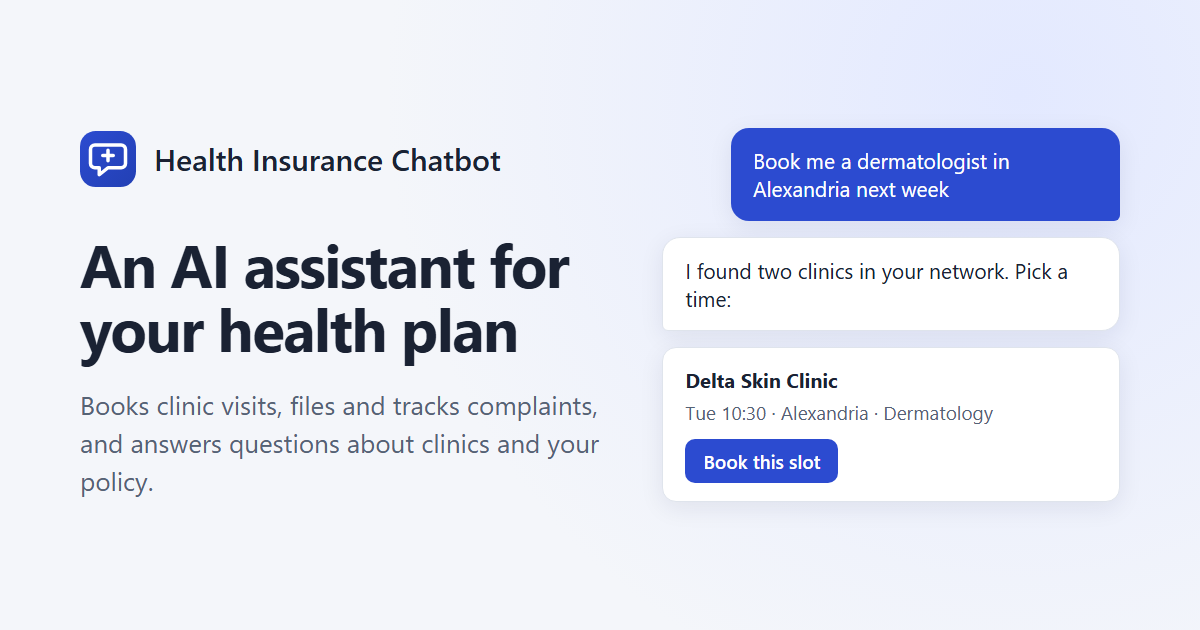
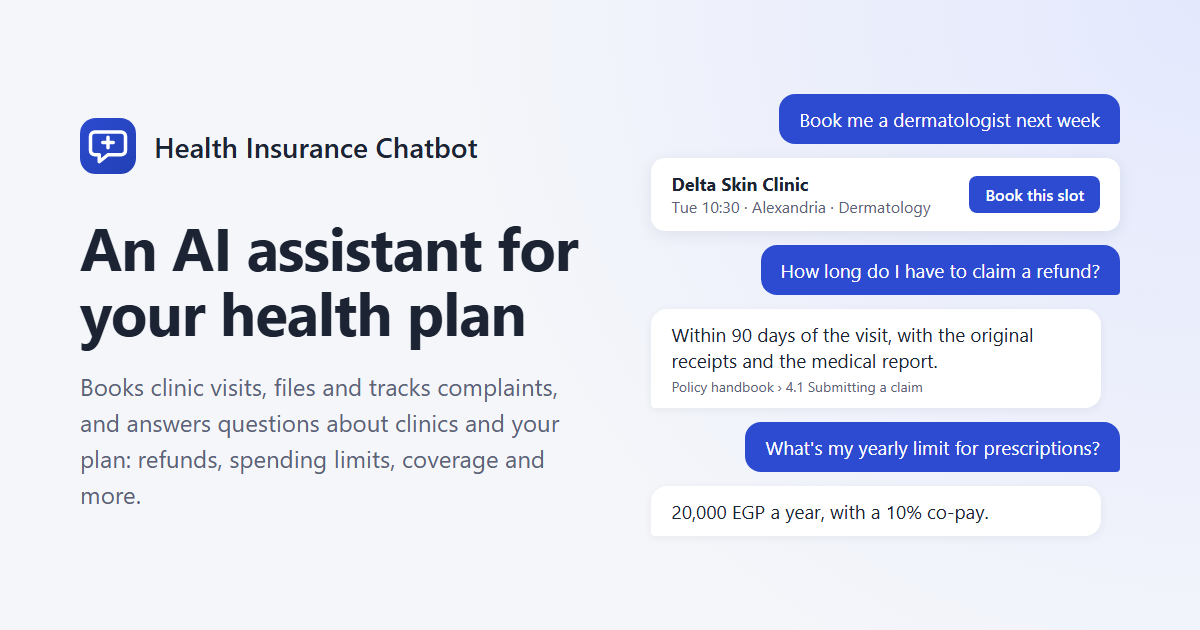
[post-8 Policy questions] say policy questions cover refunds, spending limits and other general insurance questions

diff --git a/frontend/index.html b/frontend/index.html
@@ -7,11 +7,11 @@
     <title>Health Insurance Chatbot</title>
     <link rel="apple-touch-icon" href="/apple-touch-icon.png" />
     <!-- Link previews: crawlers need absolute URLs, so change the domain here if DOMAIN changes -->
-    <meta name="description" content="An AI assistant for a health plan: books clinic visits, files and tracks complaints, and answers questions about clinics and the policy." />
+    <meta name="description" content="An AI assistant for a health plan: books clinic visits, files and tracks complaints, and answers questions about clinics and policy questions such as refunds, spending limits and coverage." />
     <meta property="og:type" content="website" />
     <meta property="og:site_name" content="Health Insurance Chatbot" />
     <meta property="og:title" content="Health Insurance Chatbot" />
-    <meta property="og:description" content="An AI assistant for a health plan: books clinic visits, files and tracks complaints, and answers questions about clinics and the policy." />
+    <meta property="og:description" content="An AI assistant for a health plan: books clinic visits, files and tracks complaints, and answers questions about clinics and policy questions such as refunds, spending limits and coverage." />
     <meta property="og:url" content="https://health-insurance-chatbot-demo.hossammostafa.ai/" />
     <meta property="og:image" content="https://health-insurance-chatbot-demo.hossammostafa.ai/og-image.png" />
     <meta property="og:image:type" content="image/png" />

diff --git a/frontend/src/components/adminSections.tsx b/frontend/src/components/adminSections.tsx
@@ -4,7 +4,7 @@ import { BookIcon, BuildingIcon, CalendarIcon, ClipboardCheckIcon, MessageAlertI
 export type AdminSection = { path: string; label: string; hint: string; icon: ReactNode };
 
 export const ADMIN_SECTIONS: AdminSection[] = [
-  { path: '/admin/kb', label: 'KB documents', hint: 'Upload and index policy files', icon: <BookIcon /> },
+  { path: '/admin/kb', label: 'KB documents', hint: 'Documents for policy questions', icon: <BookIcon /> },
   { path: '/admin/catalog', label: 'Catalog', hint: 'Locations, specialties, clinics, doctors', icon: <BuildingIcon /> },
   { path: '/admin/slots', label: 'Slots', hint: 'Open and remove appointment slots', icon: <CalendarIcon /> },
   { path: '/admin/visits', label: 'Visits', hint: 'Review and complete booked visits', icon: <ClipboardCheckIcon /> },

diff --git a/frontend/src/pages/ChatPage.tsx b/frontend/src/pages/ChatPage.tsx
@@ -262,7 +262,7 @@ export function ChatPage(): ReactNode {
                 <div className="mx-auto mt-[12vh] mb-6 flex max-w-lg flex-col items-center gap-3 text-center">
                   <LogoMark size={48} />
                   <p className="text-xl font-bold">How can I help today?</p>
-                  <p className="text-sm text-muted">Book a visit, check a complaint, or ask about your policy and clinics.</p>
+                  <p className="text-sm text-muted">Book a visit, check a complaint, ask about clinics, or ask a policy question such as refunds or spending limits.</p>
                 </div>
                 <div className="mx-auto grid max-w-lg grid-cols-1 gap-3 sm:grid-cols-2">
                   {STARTER_CARDS.map(card => (

diff --git a/frontend/src/api/chat.ts b/frontend/src/api/chat.ts
@@ -207,7 +207,7 @@ export const STARTER_CARDS: readonly { label: string; message: string }[] = [
   { label: 'Cancel a visit', message: 'I want to cancel a visit.' },
   { label: 'File a complaint', message: 'I want to file a complaint about a visit.' },
   { label: 'Check my complaints', message: 'Show me my complaints.' },
-  { label: 'Ask about my coverage', message: 'What does my health insurance cover?' },
+  { label: 'Ask a policy question', message: 'What does my health insurance cover?' },
 ];
 
 const WEEKDAYS = ['Sun', 'Mon', 'Tue', 'Wed', 'Thu', 'Fri', 'Sat'];

diff --git a/frontend/src/pages/ChatPage.test.tsx b/frontend/src/pages/ChatPage.test.tsx
@@ -107,7 +107,7 @@ describe('ChatPage', () => {
       'Cancel a visit',
       'File a complaint',
       'Check my complaints',
-      'Ask about my coverage',
+      'Ask a policy question',
     ]);
   });
 

diff --git a/docs/progress.md b/docs/progress.md
@@ -184,6 +184,7 @@ Choices made without asking. Format: `- [phase.step] decision - why`.
 - [audit fixes] (user, 2026-11-18, "implement the recommended updates") Branch `audit-fixes`. Admin visits (AP4, D4): rows carry patient, location, clinic, specialty, doctor and UTC time; patient search, a `visit_id` filter and Scheduled as the default filter. Admin complaints (AP5): list with patient, date and reply count, and a detail pane from the new `GET /admin/complaints/:id` (visit, description, reply thread with admin usernames), reply box disabled when closed, and `close` on the reply request so "Close complaint after sending" closes in the same transaction (E4); the path stays `/reply` and the wireframe was corrected. Catalog (AP2, A5): clinic counts, specialty chips and a `[Specialties]` editor, the doctor form picks a clinic and then one of its specialties ("Add a specialty to this clinic first."), doctors show clinic and specialty names, and every delete first calls `GET /admin/{kind}/:id/cascade`, so the dialog says what cascades or why it is blocked. Bug found while doing it: deleting a location whose clinics had visits by members from another location hit the RESTRICT key and returned 500; it is now 409 has_history (`test_A5_location_with_visits_from_members_elsewhere_is_blocked_not_500`). Duplicate location and specialty names return `name_taken` (A4). Slots (AP3, C4, C5, C8): location, clinic and specialty filters, day labels and month from UTC (they used the browser's local time), past slots greyed and read-only, booked chips link to `/admin/visits?visit=<id>` (slots carry `visit_id`), auto-fill reports skipped slots and its confirm names the end date, and a booked slot says "Cancel the visit first.". Admin visits and complaints default to 50 rows. The drawer's complaints show the visit date and doctor, the filed date, reply dates and "No reply yet" (F14). A 401 from any API call except `/auth/*` marks the session gone; the guard sends the user to /login with the page they were on, and login returns there when the role may open it (wireframes section 8). The Qdrant clients no longer skip the version check. CLAUDE.md and the wireframes no longer name shadcn/ui, and the `samples/` instruction is gone (the real chat route replaced the sample). `count_rows` takes any column count (`Select[*tuple[Any, ...]]`).
 
 - [post-8 Link preview] (user, 2026-11-18) `frontend/index.html` carries Open Graph and Twitter card tags with absolute URLs on the production domain; `og-image.png` (1200x630) and `apple-touch-icon.png` (180x180) in `frontend/public` were rendered from an HTML mock in the brand palette with Playwright. The app is public, so unlike `product-reviews-analysis` Caddy needs no crawler exception.
+- [post-8 Policy questions] (user, 2026-11-19) Policy questions are any general insurance question the KB answers (refunds and reimbursement, spending limits, co-pays, coverage, exclusions, claims, approvals), not only coverage. CLAUDE.md, README, demo, deployment and wireframes say so; the qa.kb starter card is now **Ask a policy question** (same message, so the routing eval is unchanged), the KB admin hint reads "Documents for policy questions", the meta descriptions and chat empty state mention refunds and spending limits, and `og-image.png` was re-rendered with a refund and a spending-limit exchange. Prompts were left as they are; the router's qa.kb line already lists limits, co-pays and claims.
 
 ## Deviations from spec
 

diff --git a/docs/spec/wireframes.md b/docs/spec/wireframes.md
@@ -153,8 +153,8 @@ Guards (UX only; the backend checks the role on every call, B8):
 |                  |  | visit            |   | complaint        |         |
 | ...              |  +------------------+   +------------------+         |
 |                  |  +------------------+   +------------------+         |
-|                  |  | Check my         |   | Ask about my     |         |
-|                  |  | complaints       |   | coverage         |         |
+|                  |  | Check my         |   | Ask a policy     |         |
+|                  |  | complaints       |   | question         |         |
 |                  |  +------------------+   +------------------+         |
 |                  |                                                      |
 |                  | +-----------------------------------+ +----------+   |
@@ -188,7 +188,7 @@ Guards (UX only; the backend checks the role on every call, B8):
 | other | Chat |
 | (null) | New chat |
 
-qa.db is answered from the database (clinics, specialties, doctors, availability). qa.kb is answered from the knowledge base (policy, coverage, exclusions, procedures). Grouping or icons can use the prefix before the dot (visit, complaint, qa).
+qa.db is answered from the database (clinics, specialties, doctors, availability). qa.kb is answered from the knowledge base: any general insurance question the uploaded documents cover, such as refund and reimbursement rules, spending limits, co-pays, coverage, exclusions, claims, approvals and procedures. Grouping or icons can use the prefix before the dot (visit, complaint, qa).
 
 ### Starter cards (empty chat only)
 
@@ -203,7 +203,7 @@ Six cards in a 2 by 3 grid, in this order:
 | Cancel a visit | "I want to cancel a visit." | visit.cancel |
 | File a complaint | "I want to file a complaint about a visit." | complaint.file |
 | Check my complaints | "Show me my complaints." | complaint.check |
-| Ask about my coverage | "What does my health insurance cover?" | qa.kb |
+| Ask a policy question | "What does my health insurance cover?" | qa.kb |
 
 The expected intent is what the classifier should return for that message. The routing eval checks it (`ai.md`).
 
@@ -363,7 +363,7 @@ Header as in section 3, with a section menu next to the `[User view]` toggle so 
 | Health Insurance Chatbot   admin1  [KB documents v] [User view] [Log out] |
 |                                    +-----------------------------------+ |
 |                                    | KB documents                      | |
-|                                    |   Upload and index policy files   | |
+|                                    |   Documents for policy questions  | |
 |                                    | Catalog                           | |
 |                                    |   Locations, specialties, clinics,| |
 |                                    |   doctors                         | |

diff --git a/README.md b/README.md
@@ -10,7 +10,7 @@ The app has two kinds of users.
   - book and cancel clinic visits,
   - file complaints and follow the replies,
   - ask about clinics and doctors,
-  - ask policy questions, answered from an uploaded knowledge base.
+  - ask policy questions: any general insurance question the uploaded knowledge base can answer, such as refund and reimbursement rules, spending limits, co-pays, what is covered or excluded, and how to file a claim.
 - **Admins** manage the data behind it: locations, specialties, clinics, doctors, slots, visits, complaints and the knowledge-base documents.
 
 One rule shapes the whole design: **the model never writes data.** The assistant only proposes cards. A booking, cancellation or complaint happens only when the member clicks a button on one of those cards.
@@ -65,7 +65,7 @@ Where to find more:
 | Cancellations | Offers the member's scheduled visits as cards. Confirming a cancellation frees the slot. |
 | Complaints | Files a complaint about a completed visit. The member can then follow the admin's replies. |
 | Clinic questions | Answered from the database through read-only tools. |
-| Policy questions | Answered from uploaded PDF, DOCX and TXT documents (retrieval-augmented), showing the excerpts used. When the documents don't cover a question, the assistant says so. |
+| Policy questions | General insurance questions: refunds and reimbursement, spending limits, co-pays, coverage, exclusions, claims and approvals. Answered from uploaded PDF, DOCX and TXT documents (retrieval-augmented), showing the excerpts used. When the documents don't cover a question, the assistant says so. |
 
 ### For admins and operators
 
@@ -425,7 +425,7 @@ The seed adds:
 ### Step 4. Upload the knowledge base
 
 1. Log in as the admin.
-2. Open **KB documents** and upload policy files (PDF, DOCX or TXT, up to 10 MB each). The synthetic fixtures in `packages/chatbot_ai/src/chatbot_ai/evals/kb_fixtures/` work well for a demo.
+2. Open **KB documents** and upload the documents the assistant answers policy questions from, such as a policy handbook or member guide (PDF, DOCX or TXT, up to 10 MB each). The synthetic fixtures in `packages/chatbot_ai/src/chatbot_ai/evals/kb_fixtures/` work well for a demo.
 3. Wait until each document shows **Ready**.
 
 ### Step 5. Chat

diff --git a/docs/demo.md b/docs/demo.md
@@ -17,7 +17,9 @@ Setup: the stack is running with real models, the demo data is seeded, and `poli
 
 ## 3. Policy questions from the knowledge base (2 min)
 
-1. Start a new chat and click **Ask about my coverage**, or ask "How much is the co-pay for an outpatient visit?" (50 EGP) and "Does an MRI need approval, and how far ahead?" (3 working days, from a table in the member guide).
+Policy questions are any general insurance question the documents answer, not only coverage: refunds and reimbursement, spending limits, co-pays, exclusions, claims and approvals.
+
+1. Start a new chat and click **Ask a policy question**, or ask "How much is the co-pay for an outpatient visit?" (50 EGP), "What is the yearly limit for prescription drugs?" (20000 EGP), "How long do I have to claim a refund for a visit I paid for?" (90 days, with the original receipts and the medical report) and "Does an MRI need approval, and how far ahead?" (3 working days, from a table in the member guide).
 2. Ask something the documents don't cover, such as "Does the plan cover IVF?": the assistant says it could not find IVF in the documents and does not guess. Until a reranker and its minimum score are set (`AI_RERANK_MIN_SCORE`), the model writes this reply itself from the closest excerpts and may mention related clauses; the fixed reply "I couldn't find that in the documents." appears only when the search returns nothing (I8).
 
 ## 4. Cancel and complain (2 min)
@@ -34,5 +36,5 @@ Setup: the stack is running with real models, the demo data is seeded, and `poli
 ## Things to say
 
 - Every change is a button click on a card; the model only reads data and proposes.
-- Answers about policy come only from the uploaded documents, with the excerpts they used; when the documents do not cover a question, the assistant says so instead of guessing.
+- Policy answers (refunds, spending limits, co-pays, coverage, claims) come only from the uploaded documents, with the excerpts they used; when the documents do not cover a question, the assistant says so instead of guessing.
 - Each turn is routed to one specialist agent by a small classifier; the conversation history stays the same for all of them.

diff --git a/CLAUDE.md b/CLAUDE.md
@@ -2,7 +2,7 @@
 
 Version: v0.1.0. Every spec file carries the same version line.
 
-A demo of an AI chatbot for a health insurer, shown to insurers and employers. It books clinic visits, files and checks complaints, answers questions about clinics from the database, and answers policy questions from an uploaded knowledge base. The AI side is meant to show a modern RAG and agent stack, and to be measured by an eval module.
+A demo of an AI chatbot for a health insurer, shown to insurers and employers. It books clinic visits, files and checks complaints, answers questions about clinics from the database, and answers policy questions from an uploaded knowledge base. Policy questions are general insurance questions the knowledge base can answer: refund and reimbursement rules, spending limits, co-pays, coverage, exclusions, claims, approvals and procedures. The AI side is meant to show a modern RAG and agent stack, and to be measured by an eval module.
 
 ## Read in this order
 

diff --git a/docs/deployment.md b/docs/deployment.md
@@ -51,7 +51,7 @@ $P exec backend python scripts/create_admin.py --username admin1 --password <pas
 $P exec backend python scripts/seed.py
 ```
 
-Log in as the admin, open **KB documents** and upload the policy documents. The seed's sample members (`user1`, `user2`) have demo passwords; change or remove them before sharing the link widely.
+Log in as the admin, open **KB documents** and upload the knowledge-base documents (policy handbook, member guide and similar) that answer members' policy questions. The seed's sample members (`user1`, `user2`) have demo passwords; change or remove them before sharing the link widely.
 
 ## 6. Operate
 
